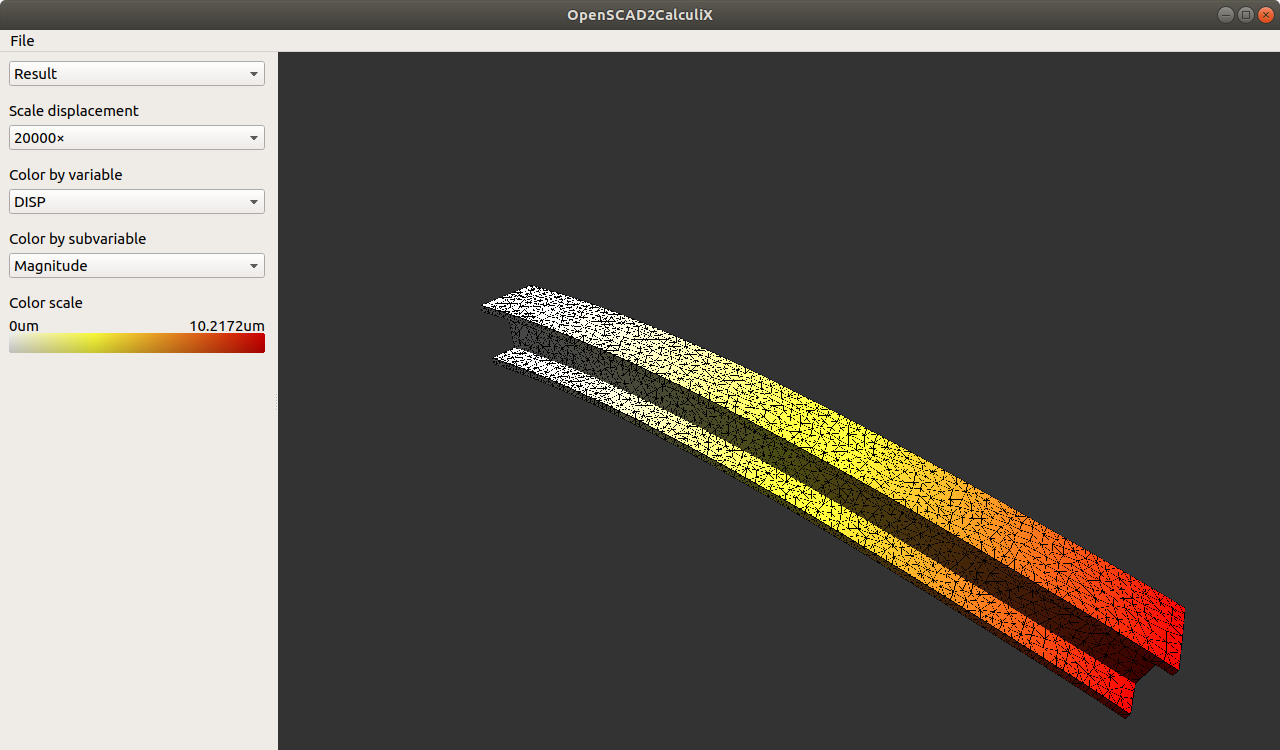
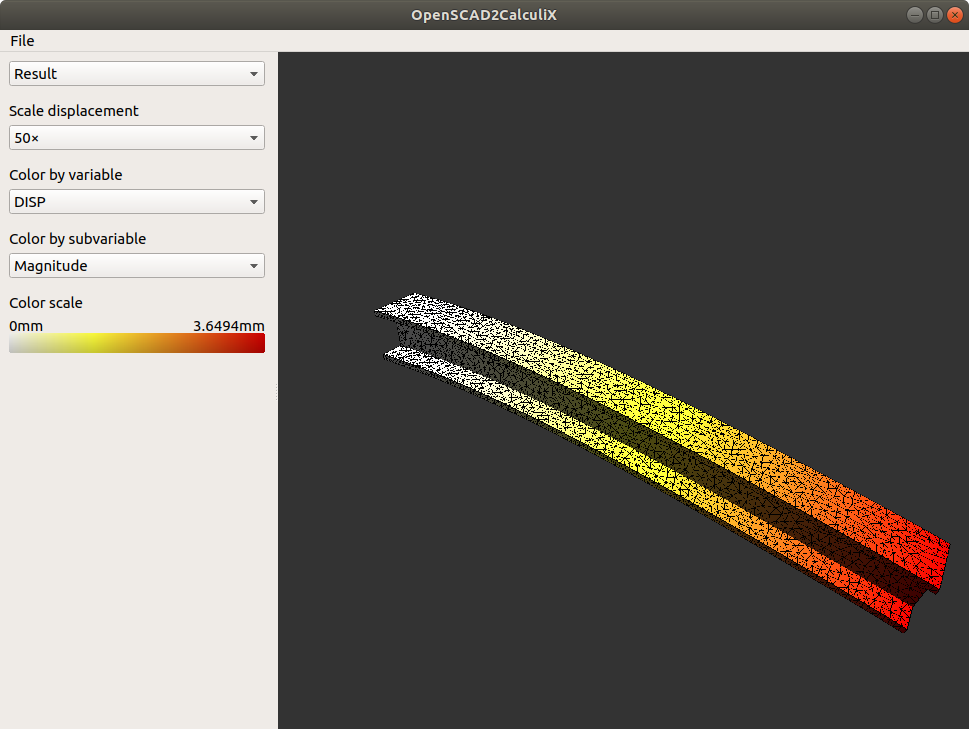
Fix errors in README

diff --git a/README.md b/README.md
@@ -57,7 +57,7 @@ os2cx_select_surface("loaded_end", [1, 0, 0], 45) {
 }
 
 /* Declares a load object in OS2CX, called "car_weight". It's defined as a
-force of 98,000 newtons in the -Z direction, applied uniformly over the
+force of 9,800 newtons in the -Z direction, applied uniformly over the
 "loaded_end" surface we defined above. */
 weight = 1000;
 gravity = 9.8;
@@ -90,9 +90,9 @@ will show us the results:
 
 ![Screenshot of simulation results](docs/example_screenshot.png)
 
-Consulting the color scale on the left-hand side, we can see that the beam would
-bend approximately 10.2 micrometers. (The bending is exaggerated by a factor of
-20,000 in the visualization.)
+The bending is exaggerated by a factor of 50 in the visualization. Consulting
+the color scale on the left-hand side, we can see that the beam would bend
+approximately 3.65 millimeters. Theory predicts 3.48 millimeters; not bad!
 
 # Installing and running
 
